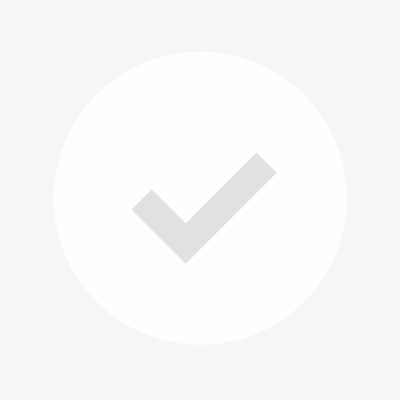
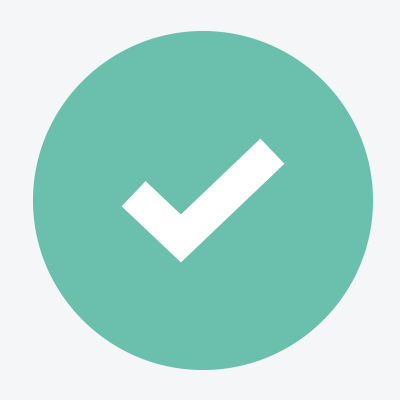
更新版本20150613001，修改部分UI

diff --git a/public/www/theme/style/main.css b/public/www/theme/style/main.css
@@ -187,7 +187,8 @@ body {
 	height: 40px;
 	line-height: 16px;
 	padding:3px;
-	background: #CCC;
+	background: #57A3DA;
+	color: #FFFFFF;
 	text-align: center;
 	display: inline-block;
 	margin-left:2px
@@ -303,4 +304,22 @@ body {
 	opacity: 0.8;
 	width: 100%;
 	height: 100%;
+}
+.flow-item-sdetail .restaurant-order {
+	background: #57A3DA!important;
+	color: #FFF!important;
+}
+.info-search h3 {
+	background: #6BC0AD!important;
+	color: #FFF!important;
+}
+.mui-media-body div b {
+	color: #6BC0AD!important;
+}
+.restaurant-detail p a {
+	border: 0!important;
+	background: #EA5E63!important;
+}
+.mui-checkbox input[type=checkbox]:checked:before, .mui-radio input[type=radio]:checked:before {
+  color: #6BC0AD!important;
 }
